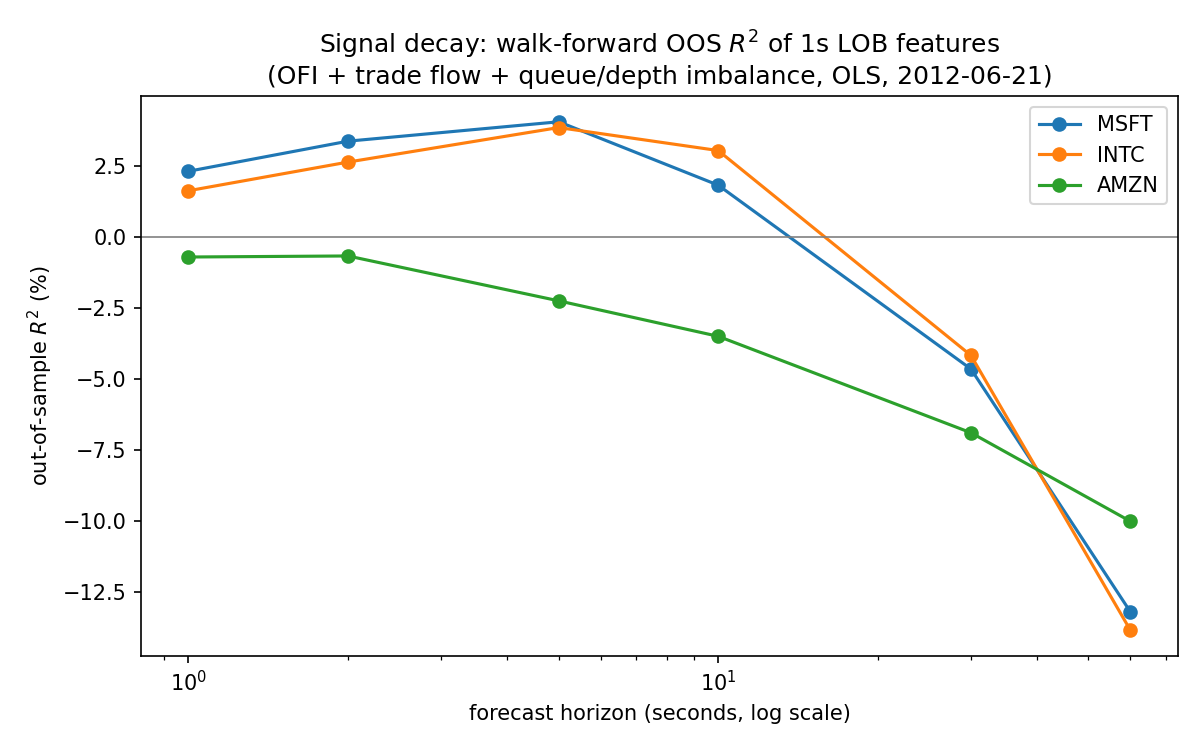
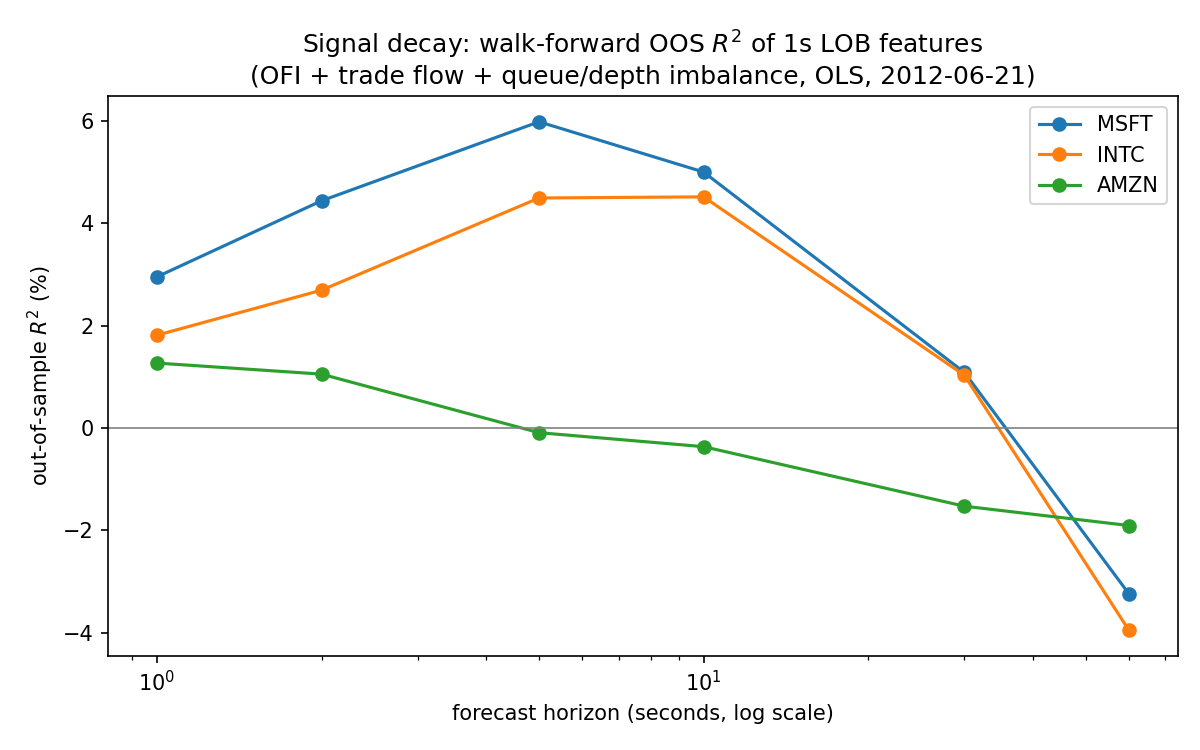
re-run with expanding window; report fold ranges, scope the execution-input claim honestly

diff --git a/README.md b/README.md
@@ -21,8 +21,11 @@ prices come as integers in units of 1e-4 USD).
 
 Targets are forward mid-price log-returns in bps over 1/2/5/10/30/60 s, measured
 bin edge to bin edge so they never overlap the feature window. Evaluation is 12
-chronological folds: fit OLS on fold i, test on fold i+1, standardisation fit on
-the training fold only. R² is pooled over all test folds against a zero forecast.
+chronological folds with an expanding window: fit OLS on folds 1..i, test on
+fold i+1, standardisation fit on the training data only. Per-fold and pooled R²
+use the same zero-forecast benchmark. (An earlier version trained on one fold
+at a time and mixed two R² benchmarks; the expanding window is more stable at
+the long horizons and the tables below reflect it.)
 
 ## Results
 
@@ -30,17 +33,22 @@ Pooled out-of-sample R² of the full feature set, by horizon:
 
 | horizon | MSFT | INTC | AMZN |
 |---|---|---|---|
-| 1s  | 2.3% | 1.6% | −0.7% |
-| 2s  | 3.4% | 2.7% | −0.7% |
-| 5s  | 4.1% | 3.9% | −2.2% |
-| 10s | 1.8% | 3.1% | −3.5% |
-| 30s | −4.6% | −4.2% | −6.9% |
-| 60s | −13.2% | −13.8% | −10.0% |
+| 1s  | 3.0% | 1.8% | 1.3% |
+| 2s  | 4.4% | 2.7% | 1.1% |
+| 5s  | 6.0% | 4.5% | −0.1% |
+| 10s | 5.0% | 4.5% | −0.4% |
+| 30s | 1.1% | 1.0% | −1.5% |
+| 60s | −3.2% | −4.0% | −1.9% |
 
-The signal peaks around 5s (R² ~4%, prediction-target correlation ~0.23) and is
-gone by 30s. It's a large-tick thing: MSFT and INTC trade with the spread pinned
-at one tick (~3-4 bps) and show it, while AMZN (5.4 bps median spread, thinner
-book) shows nothing under the same model.
+Pooled numbers hide a lot of fold-to-fold noise on one day of data, so the
+per-fold range matters: at 5s the fold R² runs −0.5% to +9.5% for MSFT, −3.6%
+to +9.8% for INTC, −7.7% to +2.1% for AMZN (full ranges in
+`results/metrics.csv`).
+
+The signal peaks around 5s (R² ~5-6%, prediction-target correlation ~0.24-0.26)
+in the large-tick names and is near zero by 30-60s. MSFT and INTC trade with
+the spread pinned at one tick (~3-4 bps) and show it; small-tick AMZN (5.4 bps
+median spread, thinner book) shows a little at 1-2s and nothing from 5s on.
 
 Two things I didn't expect going in. OFI on its own doesn't predict at these
 horizons (R² ~0) — the Cont et al. result is about contemporaneous impact, not
@@ -48,8 +56,9 @@ forecasting; the ablation in `metrics.csv` shows the difference. The
 forward-looking part comes mostly from queue and depth imbalance.
 
 And there's no tradeable edge: where R² is positive, the predicted move beats
-half the spread in under 1% of bins. Crossing the spread on this loses money.
-If it's useful anywhere it's in quoting or execution timing.
+half the spread in well under 1% of bins, so crossing the spread on this loses
+money. Whether it survives inside a quoting or execution model is untested
+here — that would need queue-position and fill modelling this repo doesn't do.
 
 Per-fold ranges and the OFI-only ablation are in `results/metrics.csv`; decay
 plot in `results/signal_decay.png`.
